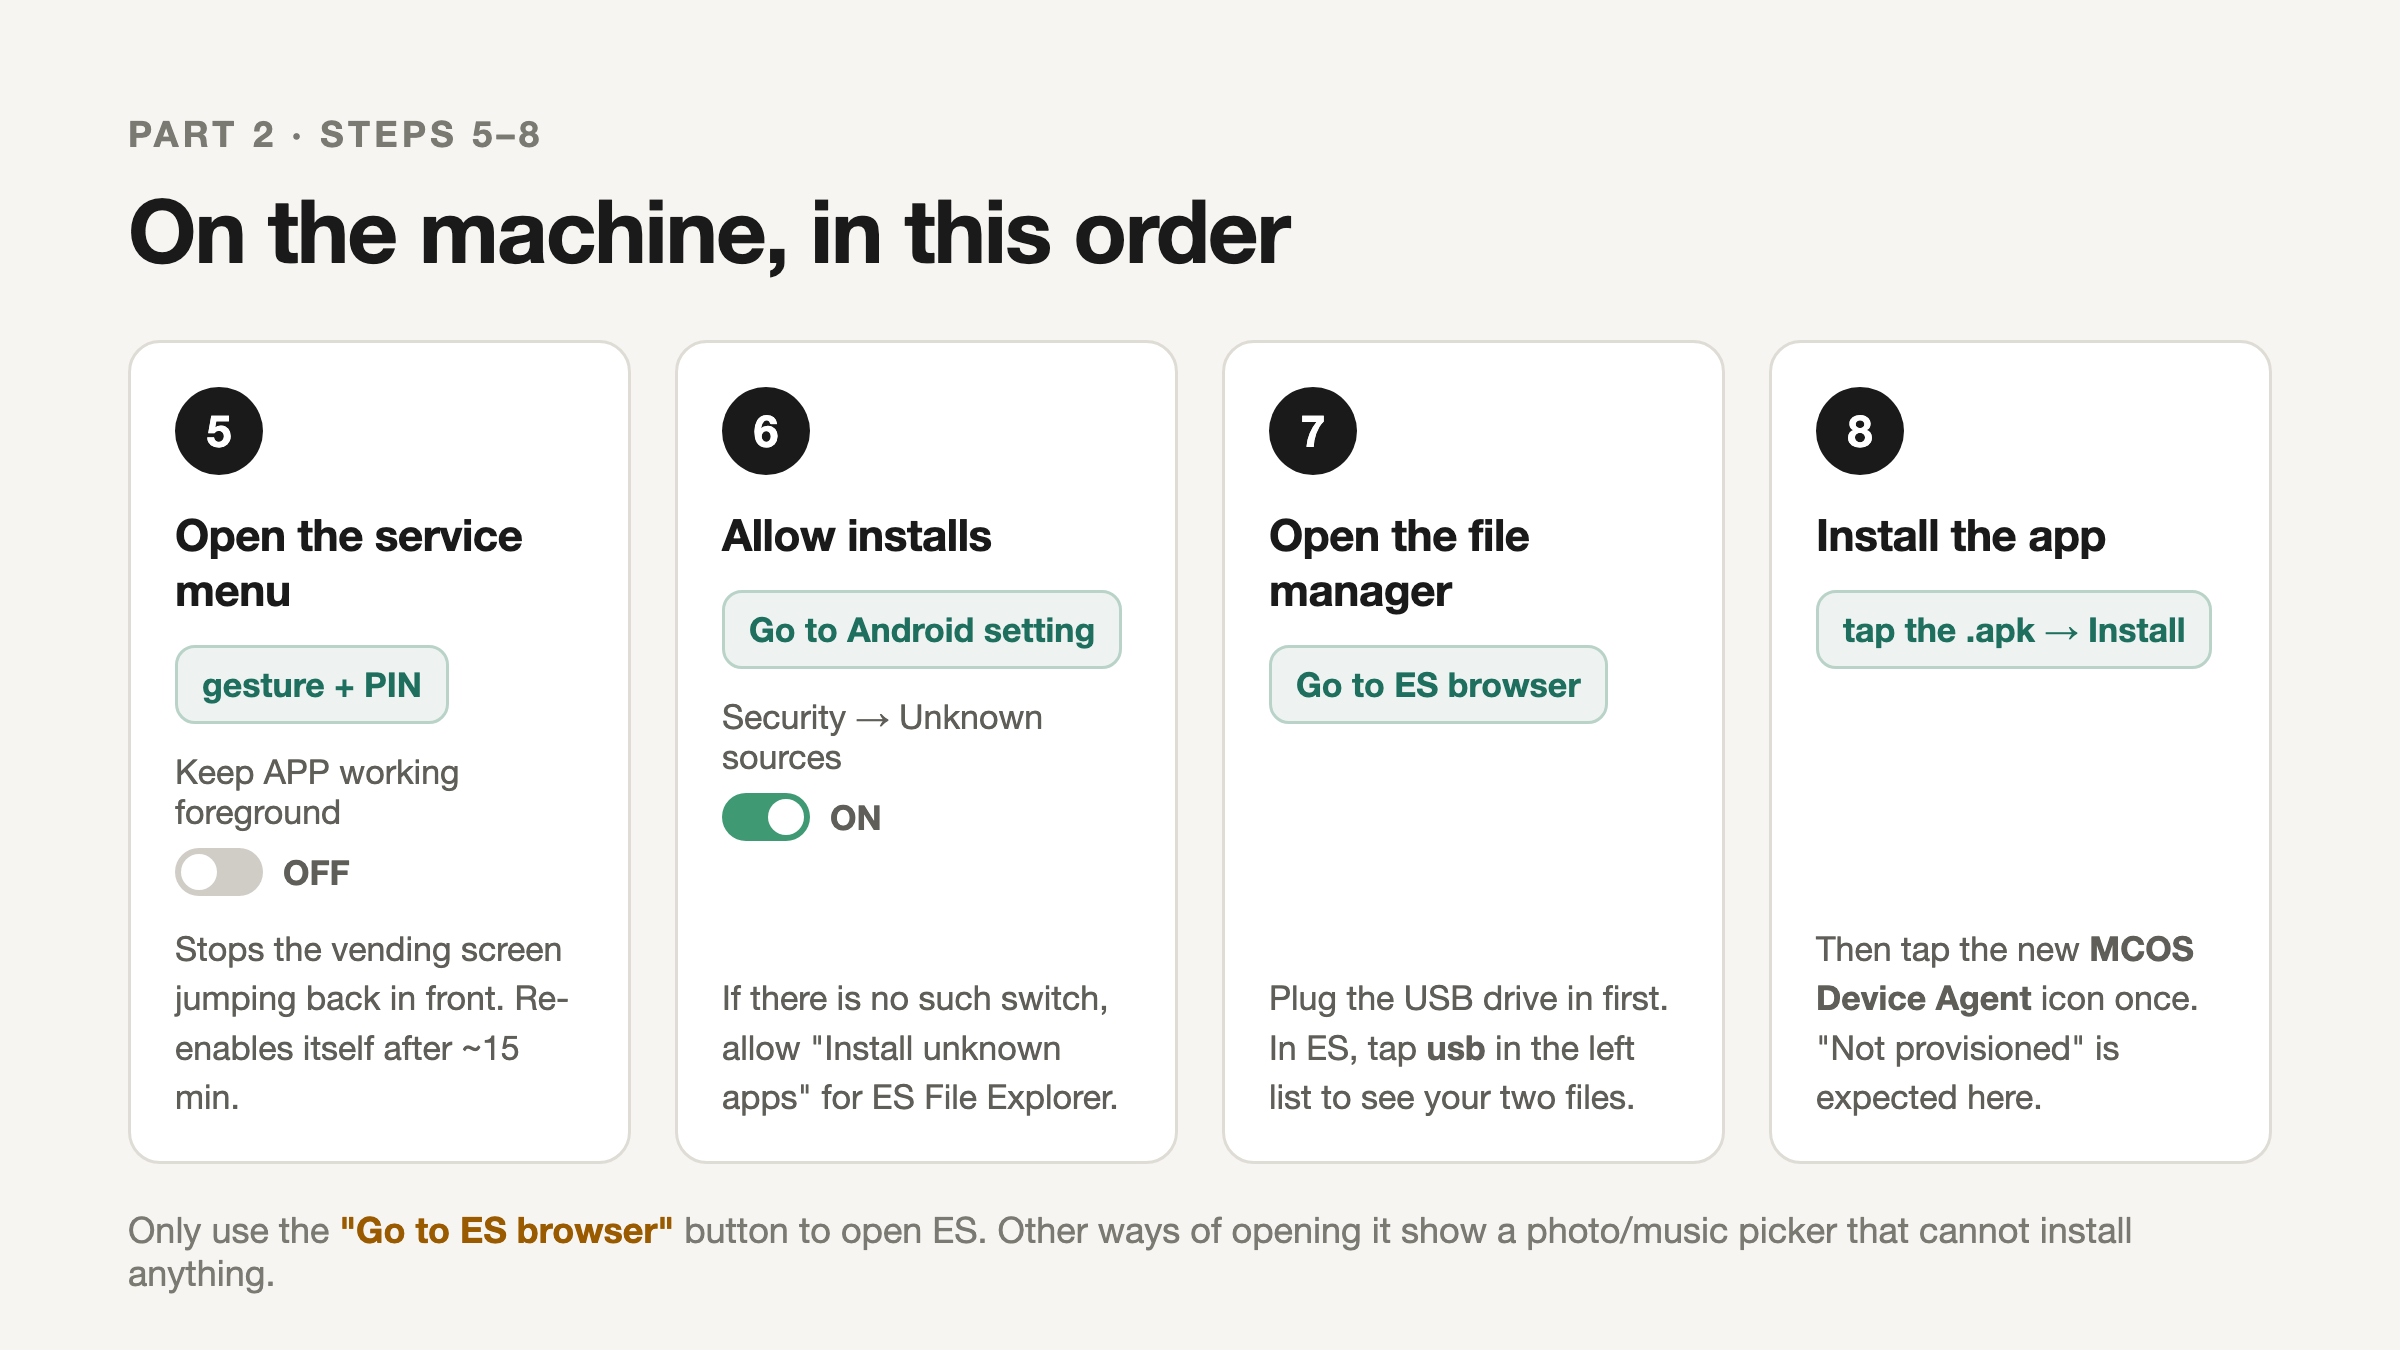
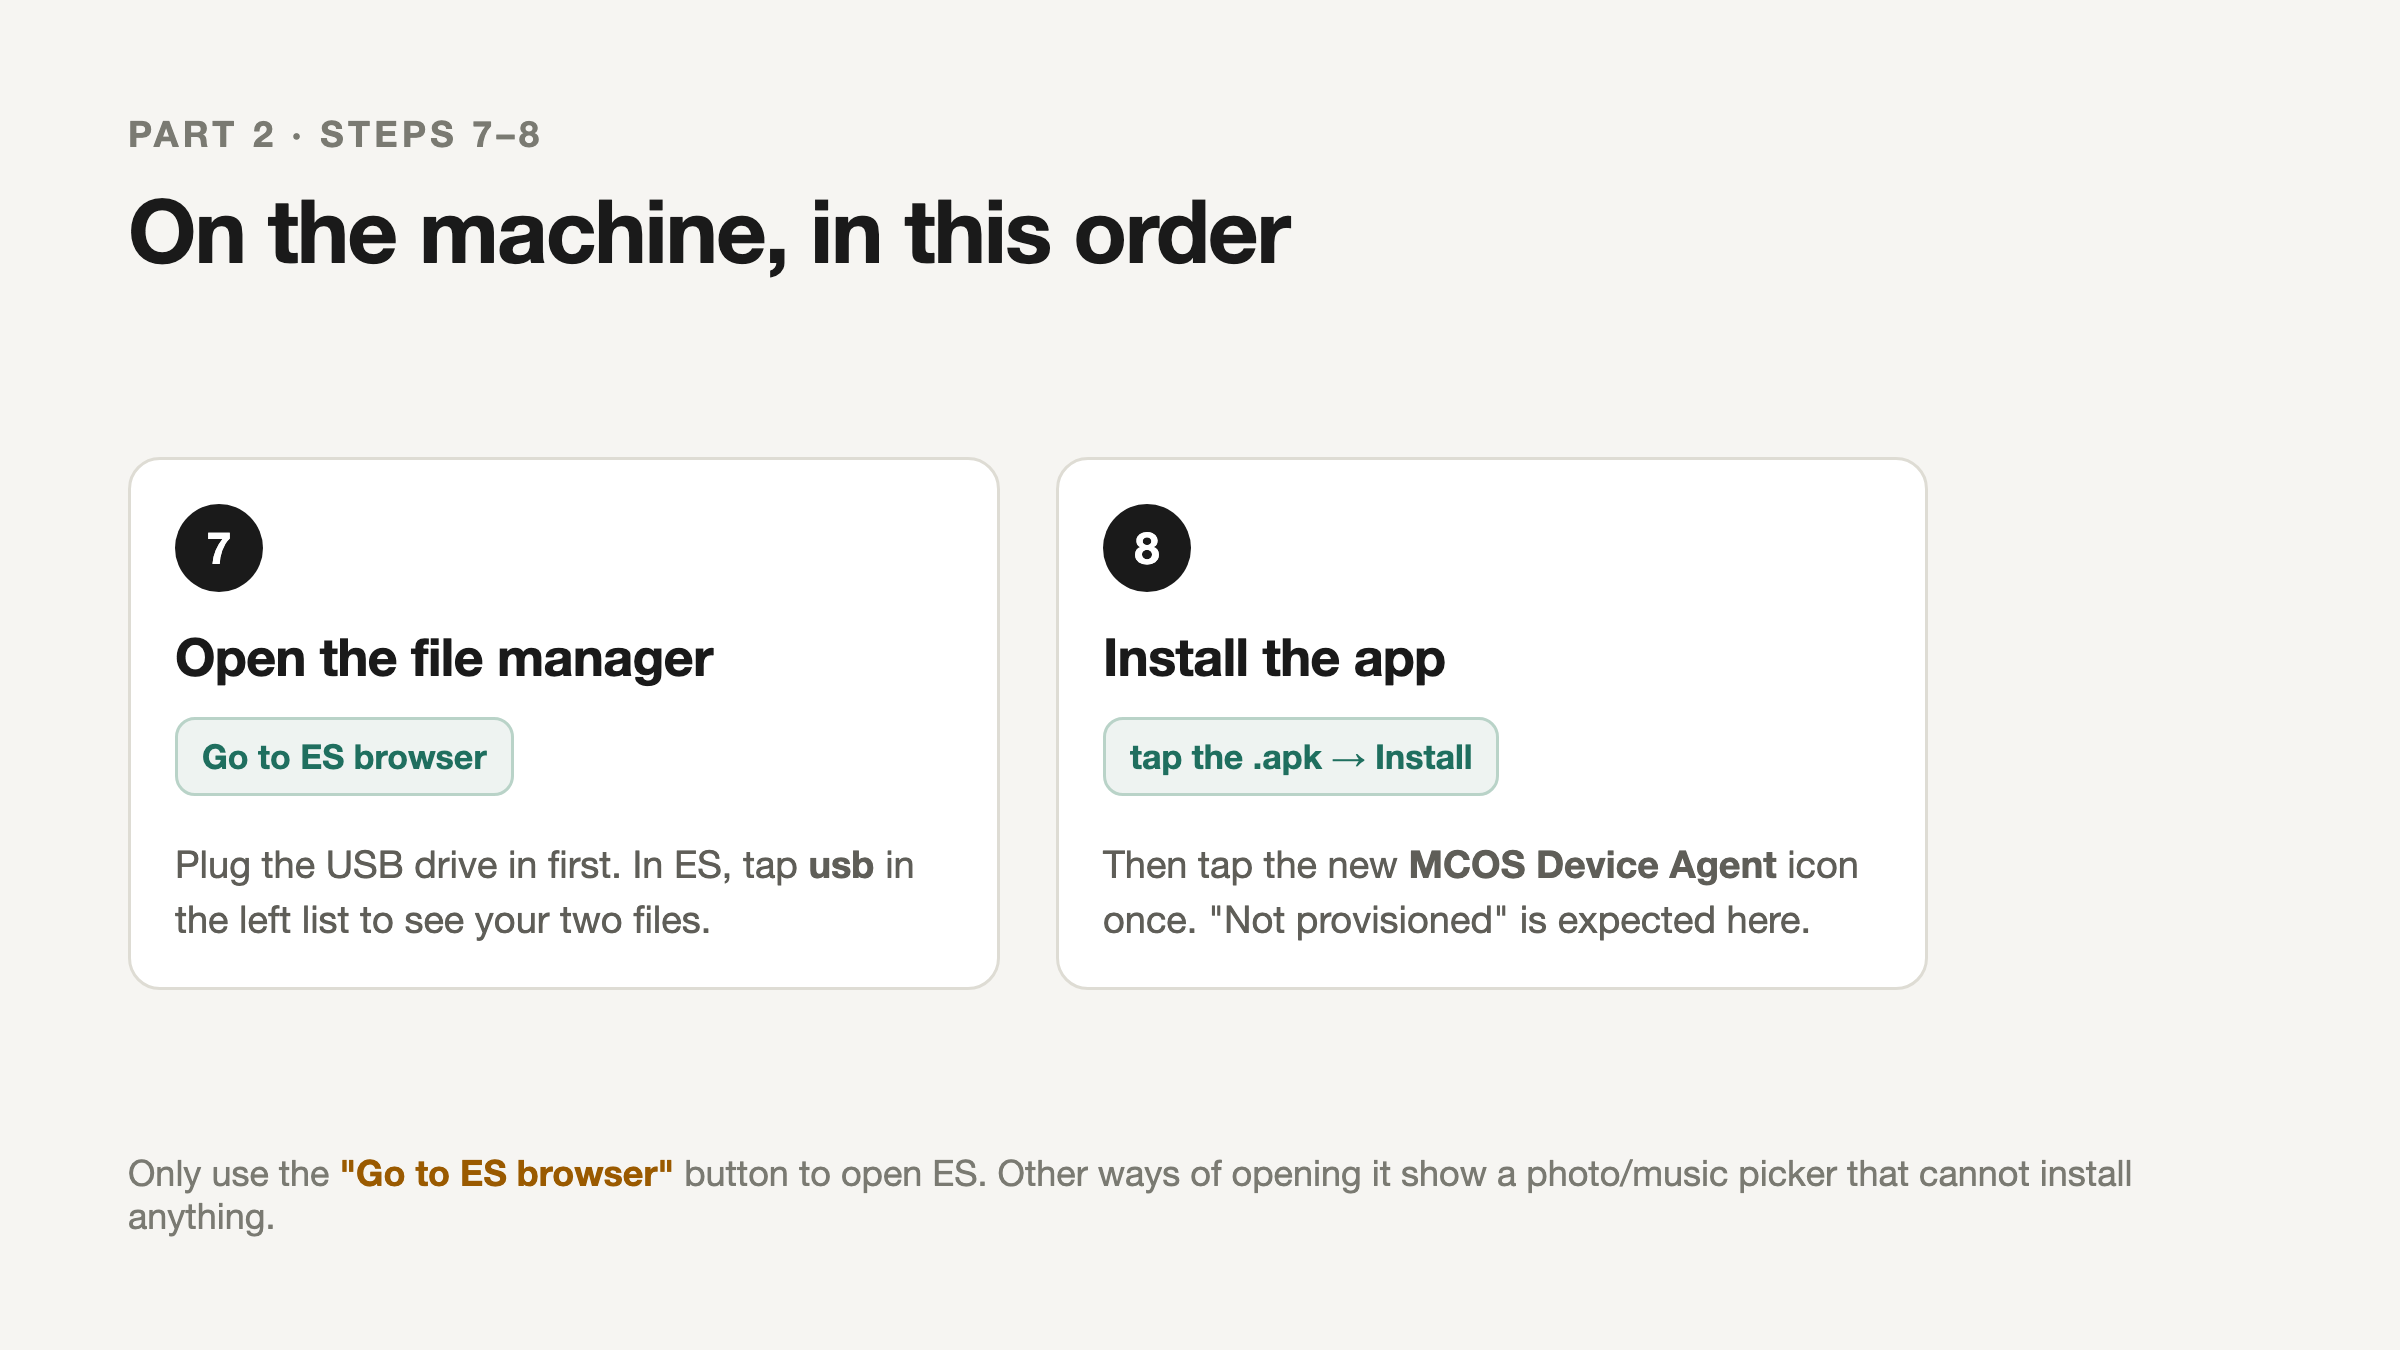
Trim Part 2 illustration to steps 7-8 and move it under step 7

Changed region(s): [[0.0625, 0.28, 0.9375, 0.9644], [0.6875, 0.28, 0.9062, 0.4978]]

diff --git a/README.md b/README.md
@@ -72,8 +72,6 @@ Use **Safely Remove** (Windows) or **Eject** (Mac) before unplugging, so the fil
 
 ## Part 2 — Install on the machine
 
-![The steps on the machine, in order](docs/img/3-on-the-machine.png)
-
 ### 5. Open the service menu
 
 Use the admin **gesture + PIN** on the machine's screen. This opens the **engineering / service menu**.
@@ -92,6 +90,8 @@ In the service menu tap **"Go to Android setting"**, then:
 Press the back button until you are back in the service menu.
 
 ### 7. Plug in the USB drive and open the file manager
+
+![Open ES File Explorer and install the app](docs/img/3-on-the-machine.png)
 
 Plug the drive into a USB port on the machine's board. Then in the service menu tap **"Go to ES browser"**. This opens **ES File Explorer**.
 
